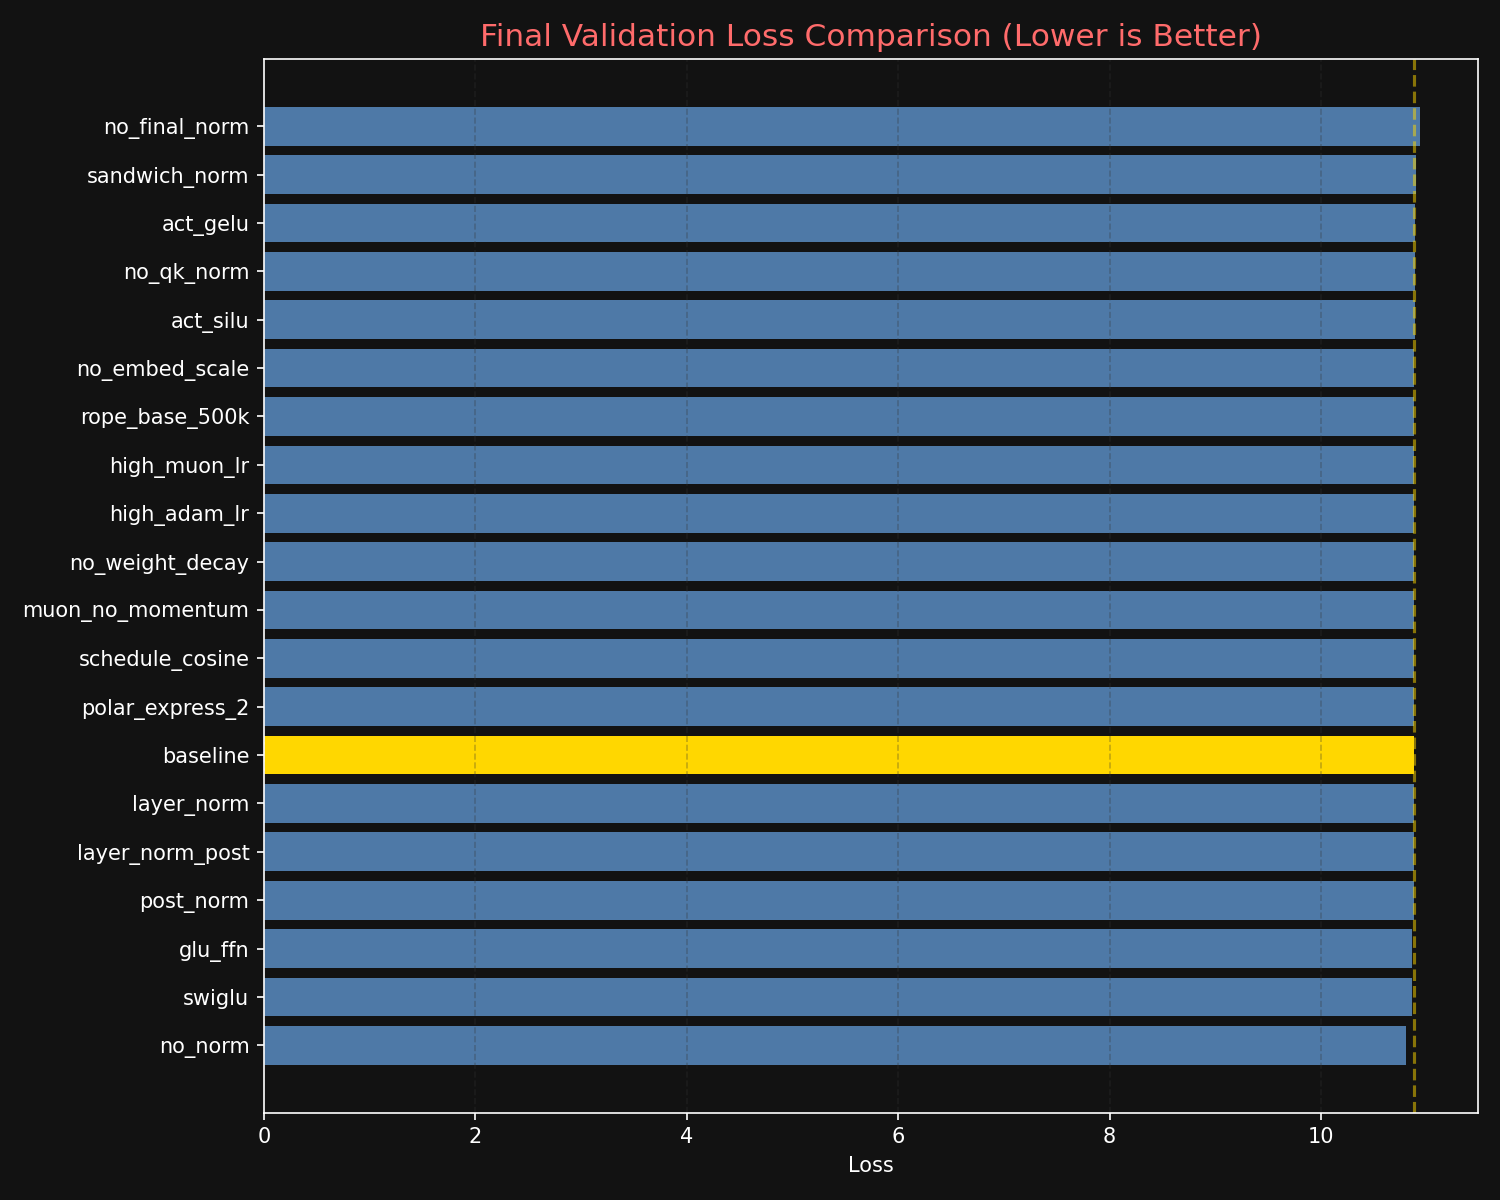
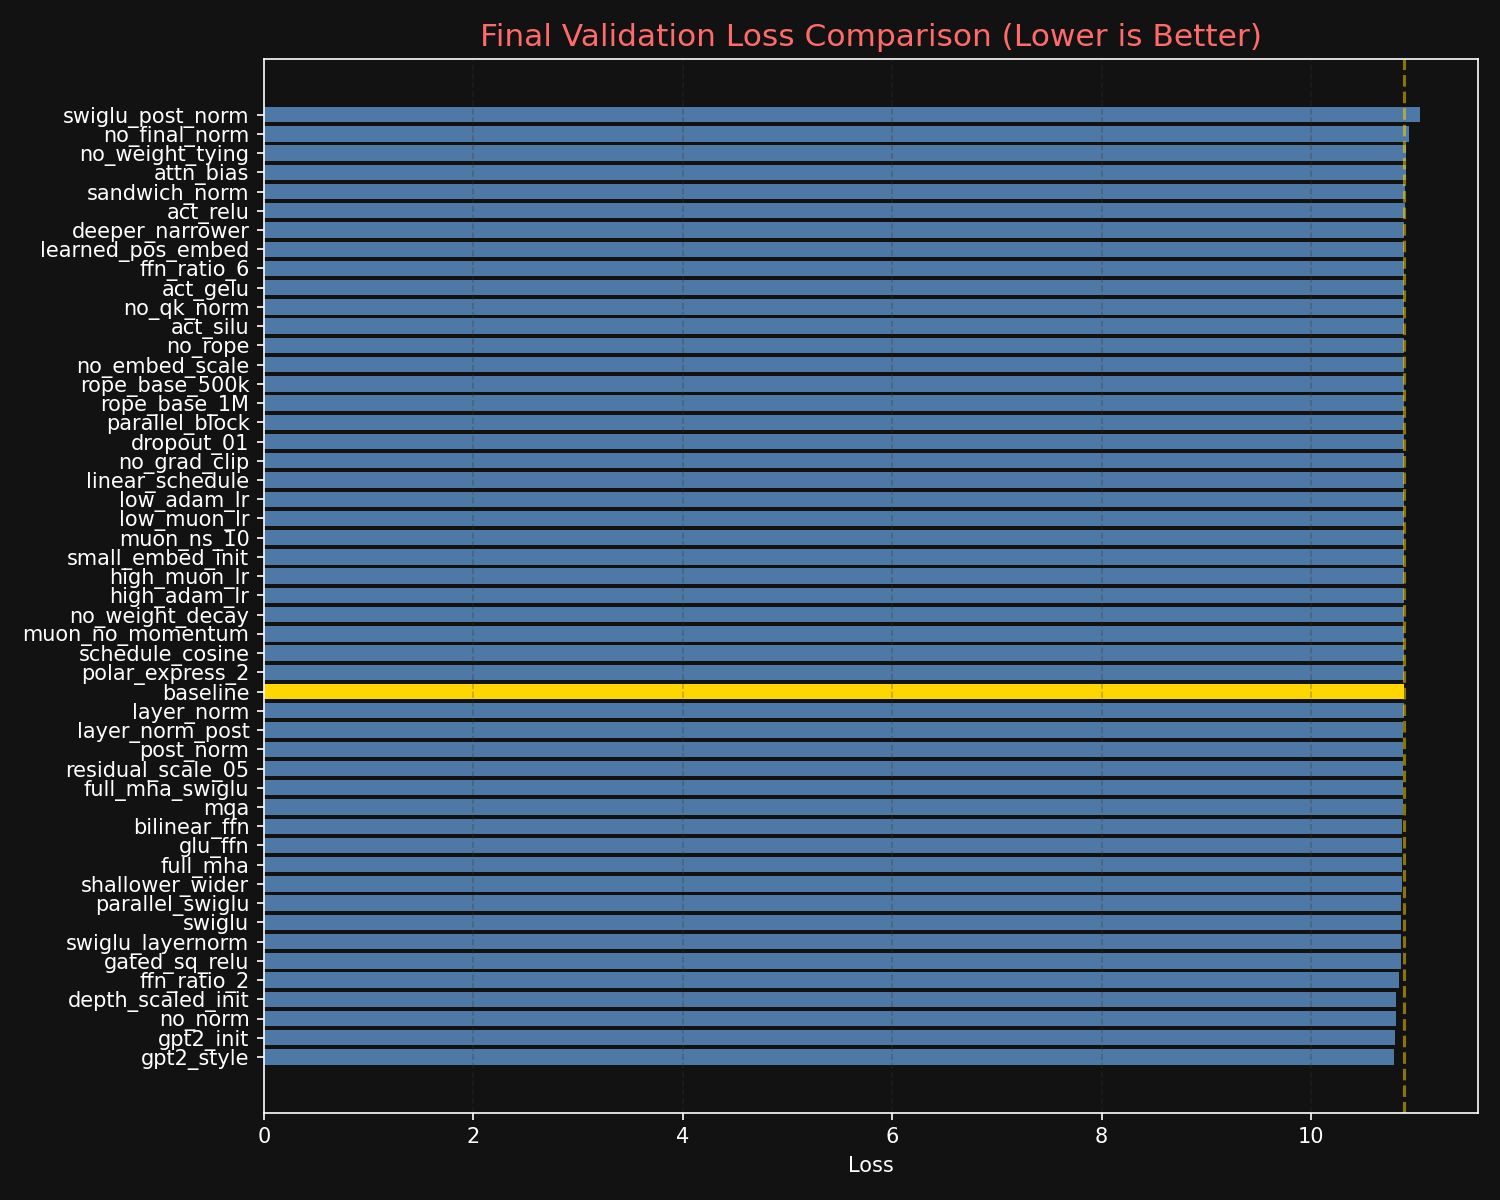
feat: Enhance `zeropower_polar_express` with Newton-Schulz fallback, add resume and error handling to ablation runs, and update live plot data source.

Changed region(s): [[0.0307, 0.0925, 0.9507, 0.8942], [0.8587, 0.925, 0.8893, 0.9558], [0.5827, 0.925, 0.6133, 0.9558]]

diff --git a/run_ablations.py b/run_ablations.py
@@ -536,16 +536,32 @@ def main():
         
         # Output directory
         exp_output = os.path.join(args.output_dir, f"{args.tokens}tok", exp_name)
+        metrics_path = os.path.join(exp_output, "metrics.json")
         
+        # Resume logic: skip if already finished
+        if os.path.exists(metrics_path):
+            print(f"⏩ [RESUME] Skipping {exp_name} - results found at {metrics_path}")
+            try:
+                with open(metrics_path, 'r') as f:
+                    all_results.append(json.load(f))
+                continue
+            except Exception as e:
+                print(f"⚠ Error loading existing metrics for {exp_name}: {e}. Re-running...")
+
         # Run experiment
-        result = run_single_experiment(
-            config=config,
-            train_loader=train_loader,
-            val_loader=val_loader,
-            output_dir=exp_output,
-            use_compile=use_compile,
-        )
-        all_results.append(result)
+        try:
+            result = run_single_experiment(
+                config=config,
+                train_loader=train_loader,
+                val_loader=val_loader,
+                output_dir=exp_output,
+                use_compile=use_compile,
+            )
+            all_results.append(result)
+        except Exception as e:
+            print(f"❌ [CRASH] Experiment {exp_name} failed: {e}")
+            print("Moving to next experiment...")
+            continue
         
         # Cleanup between experiments
         del train_loader

diff --git a/optimizers/muon.py b/optimizers/muon.py
@@ -12,32 +12,34 @@ coeffs_list = [
 ]
 
 @torch.compile()
-def zeropower_polar_express(G:torch.Tensor, steps: int = 5,):
+def zeropower_polar_express(G: torch.Tensor, steps: int = 5):
     """Polar express as replacement for Newton-Schulz iteration"""
     assert G.ndim >= 2
-    assert steps <= len(coeffs_list)
-
+    
     X = G.bfloat16()
-    # X = G.half()
-
-    transpose_needed = G.size(-2) > G.size(-1) # transposing if tall matrix
+    transpose_needed = G.size(-2) > G.size(-1) 
     if transpose_needed: 
         X = X.mT 
     
-    X = X / (X.norm(dim=(-2, -1), keepdim=True) * 1.01 + 1e-7) # safety factor
+    X = X / (X.norm(dim=(-2, -1), keepdim=True) * 1.01 + 1e-7)
     
-    coeffs = coeffs_list[:steps]
-    for a , b, c in coeffs:
+    # 1. Use polar express for the first 5 steps (as long as coefficients exist)
+    pe_steps = min(steps, len(coeffs_list))
+    for a, b, c in coeffs_list[:pe_steps]:
         A = X @ X.mT 
         A2 = A @ A 
         B = b * A + c * A2
-        X = a * X + B @ X  # Right-multiplication for left polar factor
+        X = a * X + B @ X
+    
+    # 2. Use Newton-Schulz for any remaining steps
+    for _ in range(steps - pe_steps):
+        A = X @ X.mT
+        X = 0.5 * (3.0 * torch.eye(A.size(-1), device=A.device, dtype=A.dtype) - A) @ X
     
     if transpose_needed: 
         X = X.mT 
     
-    return X # orthogonalized 
-
+    return X
 
 
 

diff --git a/utils/live_swarm_plot.py b/utils/live_swarm_plot.py
@@ -11,7 +11,7 @@ plt.rcParams['figure.facecolor'] = '#121212'
 plt.rcParams['grid.color'] = '#333333'
 
 def generate_live_plots():
-    results_dir = '/root/llm-research-kit/ablation_results/10000tok'
+    results_dir = '/root/llm-research-kit/ablation_results/10000000tok'
     metric_files = glob.glob(os.path.join(results_dir, '**/metrics.json'), recursive=True)
     
     if not metric_files:
